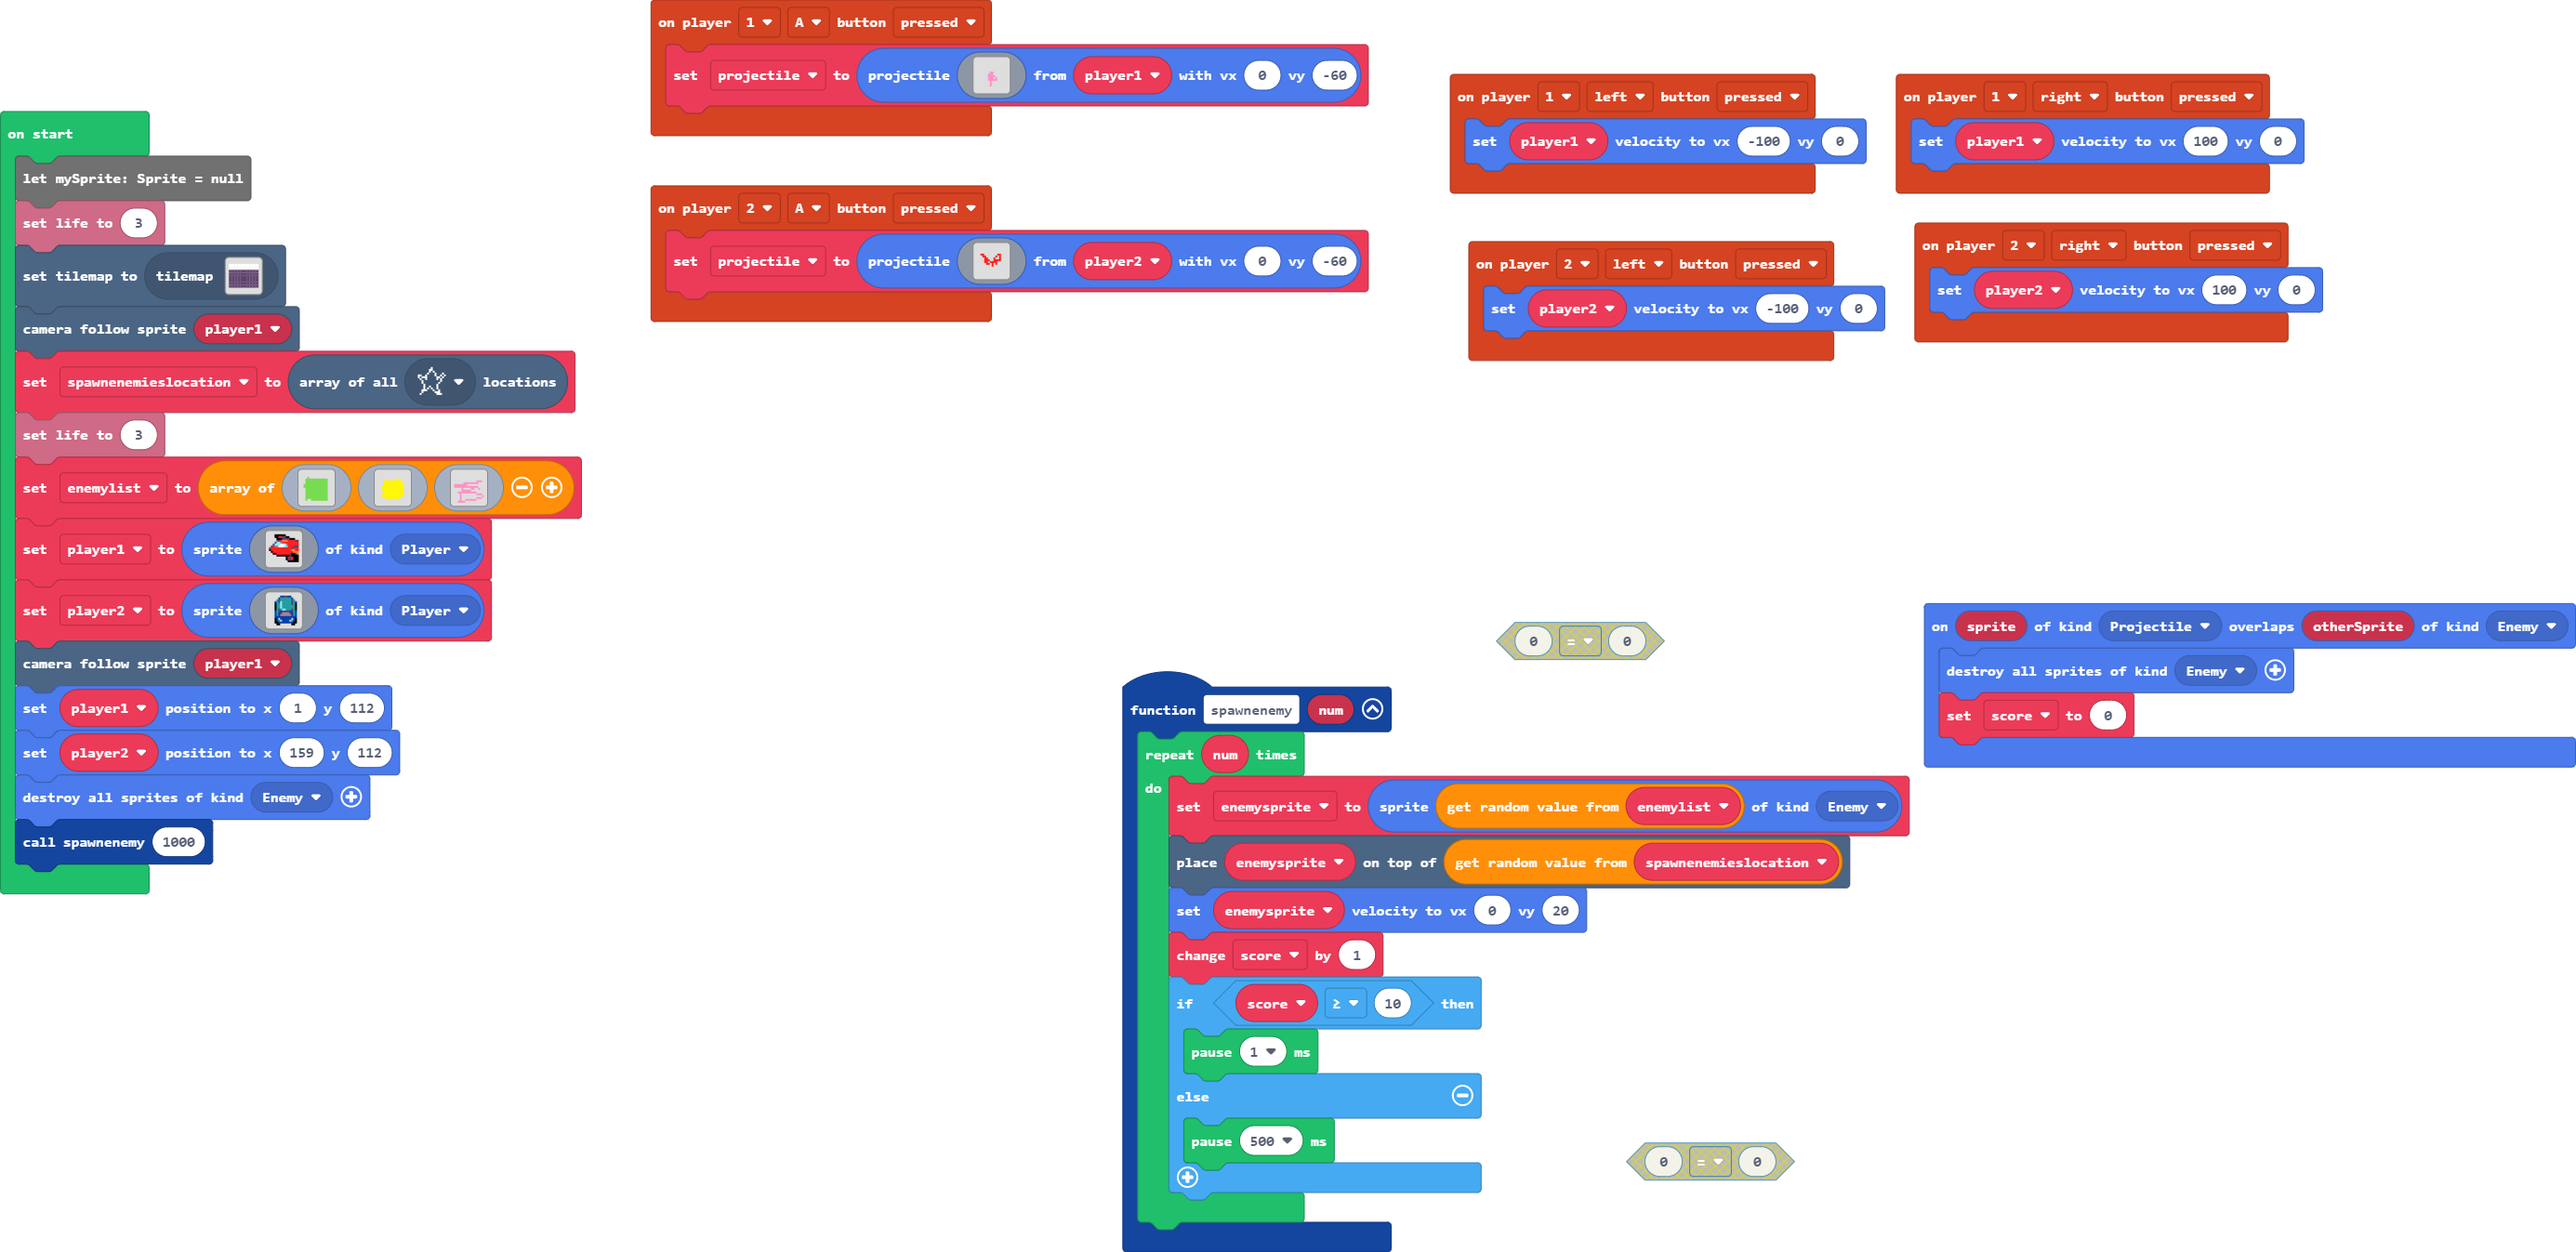
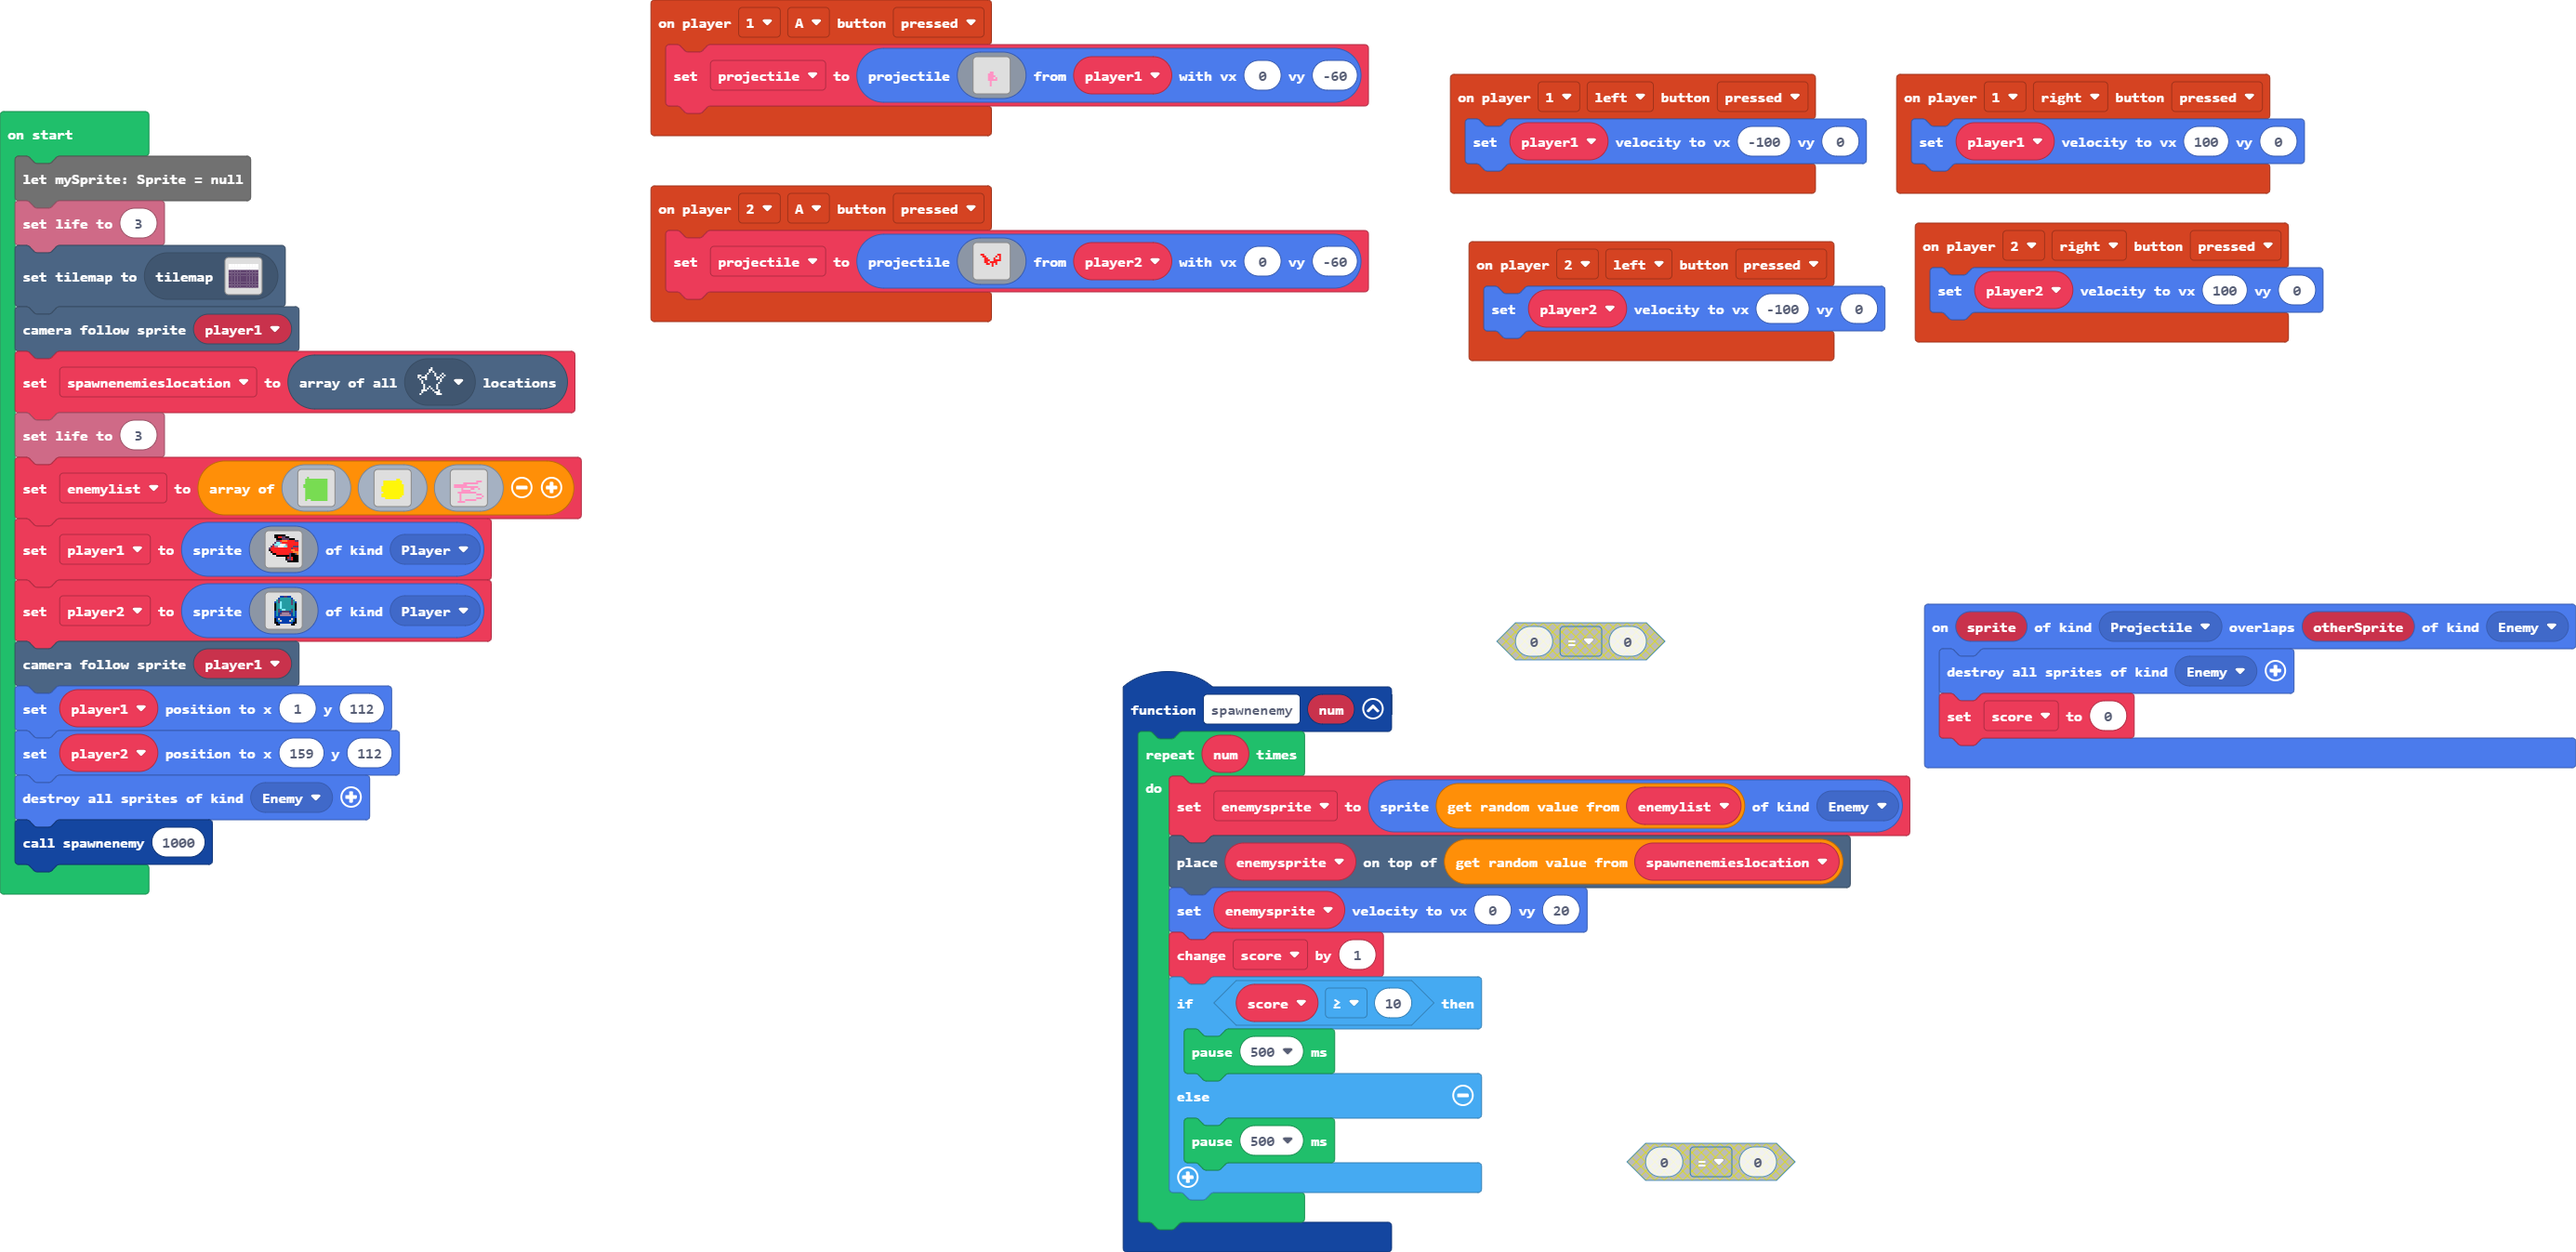
Update main.blocks, main.ts

diff --git a/main.ts b/main.ts
@@ -57,7 +57,7 @@ function spawnenemy (num: number) {
         enemysprite.setVelocity(0, 20)
         score += 1
         if (score >= 10) {
-            pause(1)
+            pause(500)
         } else {
             pause(500)
         }
